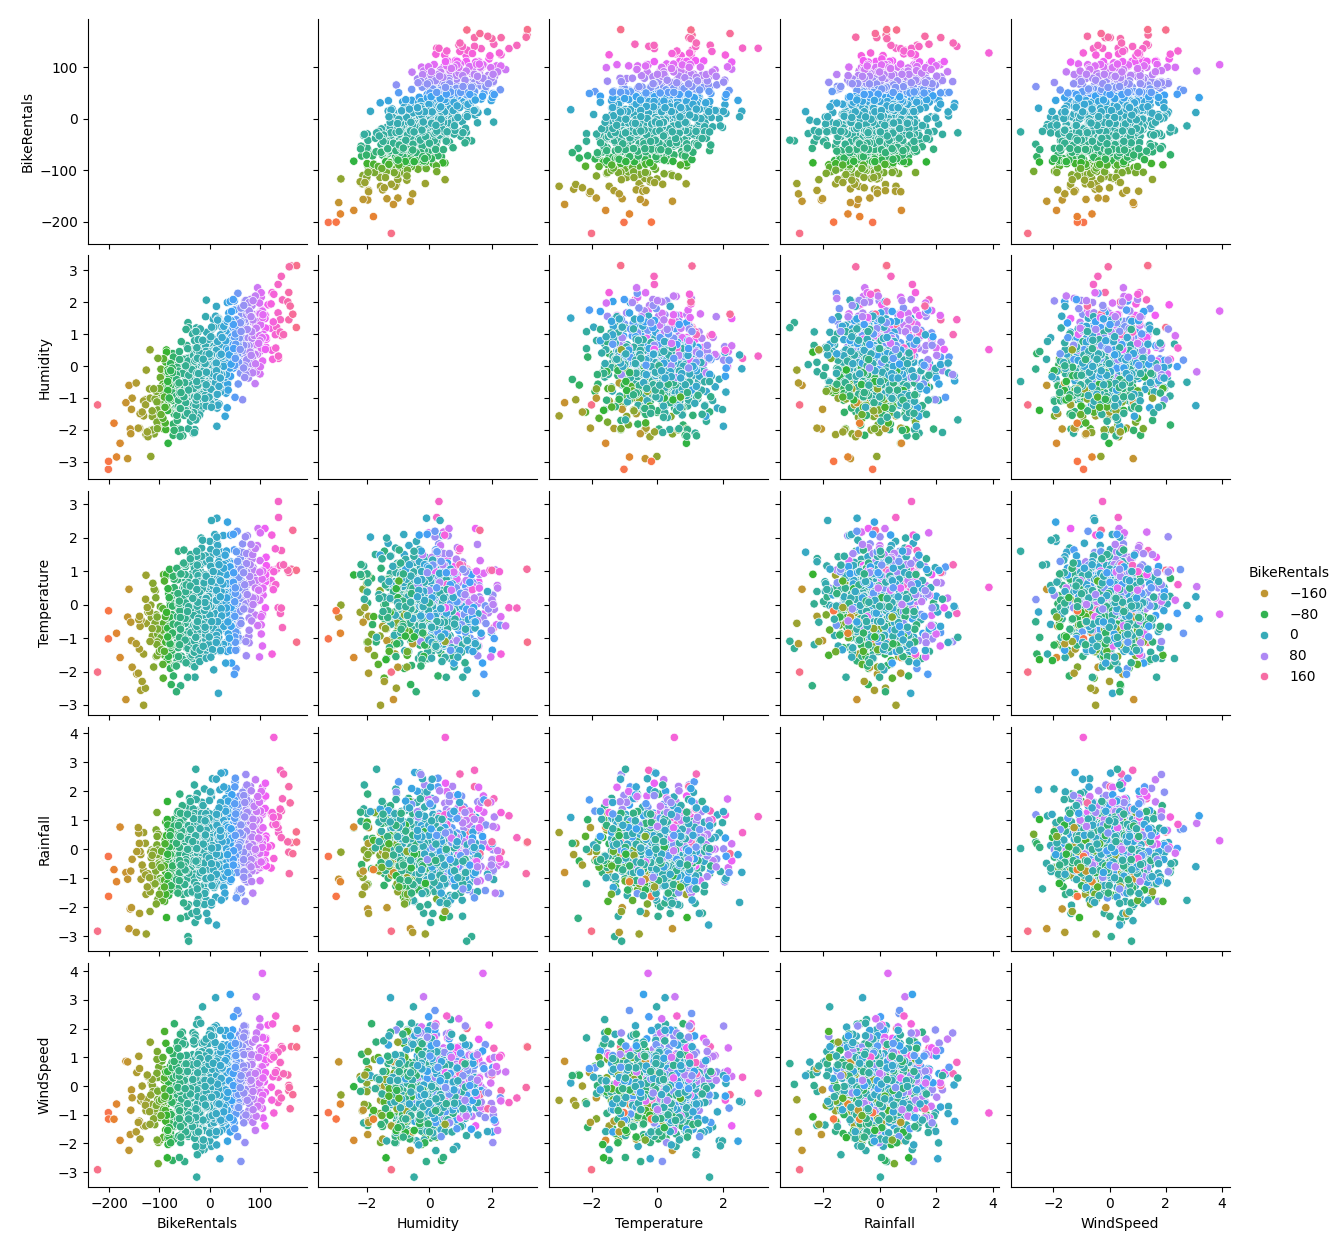
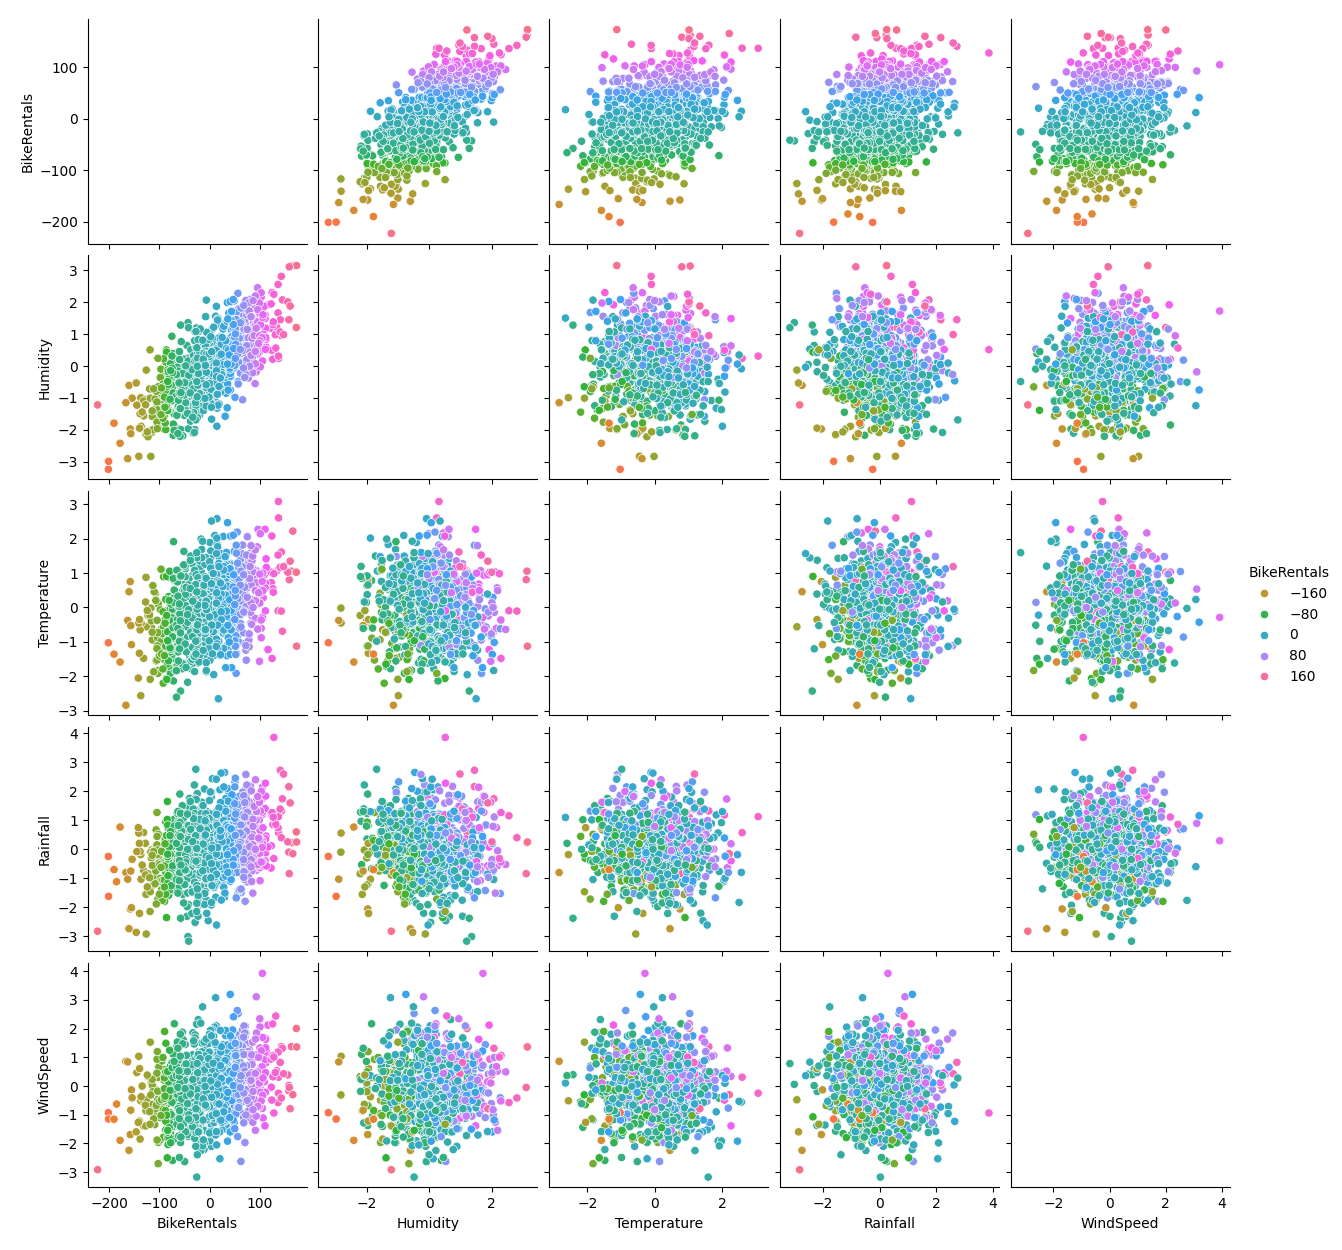
commit

diff --git a/run_colab.py b/run_colab.py
@@ -1,0 +1,138 @@
+# 필요한 라이브러리를 불러옵니다.
+import pandas as pd  # 데이터 조작 및 분석을 위한 라이브러리
+import numpy as np  # 수학 및 과학 계산을 위한 라이브러리
+from sklearn.model_selection import train_test_split  # 데이터를 훈련 및 테스트 세트로 나누는 데 사용되는 함수
+from sklearn.ensemble import RandomForestRegressor  # 랜덤 포레스트 회귀 모델
+from sklearn.impute import SimpleImputer  # 결측치를 채우기 위한 라이브러리
+import matplotlib.pyplot as plt  # 시각화를 위한 라이브러리
+import seaborn as sns  # 시각화를 위한 라이브러리
+
+# 데이터를 인터넷에서 불러와서 DataFrame에 저장합니다.
+url = 'https://github.com/Azabell1993/machineLearning/raw/main/bike_rentals.csv'
+df_bike = pd.read_csv(url)
+
+#### 1. 데이터 파악하기 ####
+# 전체 데이터를 출력하고 결과를 'data_overview.txt'에 저장합니다.
+with open('data_overview.txt', 'w') as f:
+    print(df_bike, file=f)
+
+# 출력된 데이터를 코랩에서 확인합니다.
+print("Data Overview:")
+
+# colab에서 실행 중인지 확인하여 display 함수를 사용할지 print 함수를 사용할지 결정합니다.
+try:
+    from IPython.display import display
+    display(df_bike.head())
+except ImportError:
+    print(df_bike.head())
+
+#### 2. 데이터 타입 파악 ####
+# 데이터의 타입을 확인하고 'data_types.txt'에 저장합니다.
+data_types = df_bike.dtypes
+with open('data_types.txt', 'w') as f:
+    for col, dtype in data_types.items():
+        print(f"{col}: {dtype}", file=f)
+
+# 출력된 데이터 타입을 코랩에서 확인합니다.
+print("\nData Types:")
+
+# colab에서 실행 중인지 확인하여 display 함수를 사용할지 print 함수를 사용할지 결정합니다.
+try:
+    from IPython.display import display
+    display(data_types)
+except ImportError:
+    print(data_types)
+
+#### 3. 결측치 확인 ####
+# NaN 값을 추가하여 결측치를 만들고 확인한 후 'missing_values.txt'에 저장합니다.
+df_bike.loc[df_bike.sample(frac=0.1).index, 'Temperature'] = np.nan
+df_bike.loc[df_bike.sample(frac=0.1).index, 'Humidity'] = np.nan
+missing_values = df_bike.isna().sum().sort_values(ascending=False)
+with open('missing_values.txt', 'w') as f:
+    print(missing_values, file=f)
+
+# 결측치 결과를 코랩에서 확인합니다.
+print("\nMissing Values:")
+
+# colab에서 실행 중인지 확인하여 display 함수를 사용할지 print 함수를 사용할지 결정합니다.
+try:
+    from IPython.display import display
+    display(missing_values.head(15))
+except ImportError:
+    print(missing_values.head(15))
+
+#### 4. 결측치 상위 15개 출력 ####
+# 결측치가 가장 많은 상위 15개를 출력하고 'top_missing_values.txt'에 저장합니다.
+with open('top_missing_values.txt', 'w') as f:
+    print(missing_values.head(15), file=f)
+
+# 상위 15개 결측치를 코랩에서 확인합니다.
+print("\nTop Missing Values:")
+
+# colab에서 실행 중인지 확인하여 display 함수를 사용할지 print 함수를 사용할지 결정합니다.
+try:
+    from IPython.display import display
+    display(missing_values.head(15))
+except ImportError:
+    print(missing_values.head(15))
+
+#### 5. 카테고리 자료형은 one-hot encoding으로 처리 ####
+# 카테고리형 변수를 더미 변수로 변환합니다.
+df_bike = pd.get_dummies(df_bike)
+
+
+#### 6. 특정 자료형 관련 속성 시각화 및 결과 출력 ####
+# SalePrice와의 상관관계가 높은 상위 4개 속성을 시각화하고 'correlation_results.txt'에 저장합니다.
+df_corr = df_bike.corr()
+df_corr_sort = df_corr.sort_values('BikeRentals', ascending=False)
+top_correlated_features = df_corr_sort.head(5).index.tolist()
+
+plt.figure(figsize=(10, 8))
+sns.pairplot(data=df_bike, vars=top_correlated_features, hue='BikeRentals', palette='husl')
+plt.savefig('correlation_plot.png')
+plt.show()
+
+# 첫 번째 그림을 명시적으로 닫습니다.
+plt.close()
+
+# 머신러닝 결과 출력
+X_train, X_test, y_train, y_test = train_test_split(
+    df_bike.drop('BikeRentals', axis=1),
+    df_bike['BikeRentals'].values,
+    test_size=0.2,
+    random_state=42
+)
+
+# 결측치를 채우고 랜덤 포레스트 모델을 훈련합니다.
+imputer = SimpleImputer(strategy='mean')
+X_train_imputed = imputer.fit_transform(X_train)
+X_test_imputed = imputer.transform(X_test)
+
+# 모델 생성
+model = RandomForestRegressor(n_estimators=100, random_state=42)
+model.fit(X_train_imputed, y_train)
+
+# 테스트
+predictions = model.predict(X_test_imputed)
+
+#### 7. Machine Learning 결과 출력 및 저장 ####
+# 머신러닝 결과를 'machine_learning_results.txt'에 저장합니다.
+with open('machine_learning_results.txt', 'w') as f:
+    print(f'Machine Learning Results:\n\n', file=f)
+    print(f'Predictions: {predictions}\n', file=f)
+    print(f'True Values: {y_test}\n', file=f)
+
+# 결과를 로그로도 출력합니다.
+print('Machine Learning Results:\n')
+print(f'Predictions: {predictions}\n')
+print(f'True Values: {y_test}\n')
+
+# 머신러닝 결과를 코랩에서 확인합니다.
+try:
+    from IPython.display import display
+    result_df = pd.read_csv('machine_learning_results.txt', delimiter='\t')
+    display(result_df)
+except ImportError:
+    print("\nMachine Learning Results:")
+    print(pd.read_csv('machine_learning_results.txt', delimiter='\t'))
+
